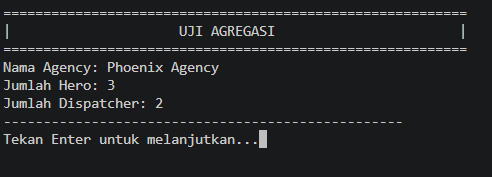
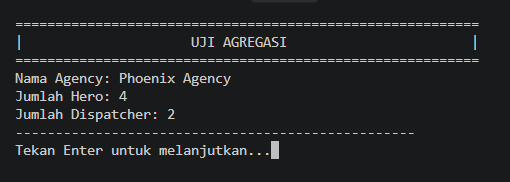
Coba Lsp

Changed region(s): [[0.0, 0.113, 0.9451, 0.8757], [0.0, 0.0565, 0.9451, 0.0847]]

diff --git a/Posttest/Posttest3/posttest3_2509106066_AryasatyaRakhaPhanyputa.py b/Posttest/Posttest3/posttest3_2509106066_AryasatyaRakhaPhanyputa.py
@@ -50,7 +50,7 @@ class Hero(ABC):
         return (f"[{self.__id_hero}] Hero: {self._nama} | Tipe: {self.tipe_hero} | "
                 f"Power: {self.power_level} | SR: {self.persentase_sukses}% | Status: {self._status}")
 
-    # OPERATOR OVERLOADING: membandingkan hero berdasarkan power level
+    # Operator Overloading dengan magic method __lt__ : membandingkan hero berdasarkan power level
     def __lt__(self, other):
         return self.power_level < other.power_level
 
@@ -82,7 +82,7 @@ class Hero(ABC):
     def aksi_khusus(self):
         pass
 
-# Inheritance dan # LSP (Liskov Substitution Principle)
+# Inheritance dan LSP (Liskov Substitution Principle)
 # Semua subclass Hero menepati kontrak Hero (tampilkan_stats & aksi_khusus diimplementasikan penuh,
 # tidak ada method yang hanya melempar error), sehingga objek subclass bisa dipakai di mana pun Hero dipakai.
 class HeroCombat(Hero):
@@ -122,7 +122,19 @@ class HeroMobility(Hero):
 
     def aksi_khusus(self):      # overriding
         print(f"{self.nama} bergerak cepat dengan speed level {self.speed_level}!")
- 
+
+# OCP: HeroVigor ditambahkan sebagai subclass baru tanpa mengubah Hero maupun subclass lainnya.
+class HeroVigor(Hero):
+    TIPE = "Vigor"
+    def __init__(self, nama, power_level, persentase_sukses, stamina, status="Standby"):
+        super().__init__(nama, power_level, persentase_sukses, status)
+        self.stamina = stamina  
+
+    def tampilkan_stats(self):  # overriding
+        print(self.info_dasar() + f" | Stamina: {self.stamina}")
+
+    def aksi_khusus(self):      # overriding
+        print(f"{self.nama} mempunyai stamina sebesar {self.stamina}!")
 
 # DIP (Dependency Inversion Principle)
 # Dispatcher bergantung pada abstraksi MissionEvaluator, bukan pada kelas konkret.
@@ -133,7 +145,6 @@ class MissionEvaluator(ABC):
 
 # OCP (Open/Closed Principle): aturan penilaian baru cukup ditambah sebagai subclass baru
 # dari MissionEvaluator, tanpa mengubah Dispatcher maupun penilai yang sudah ada.
-
 # penilaian konkret ditambahkan lewat kelas baru
 class TypeEvaluator(MissionEvaluator):
     def nilai(self, tim, misi):
@@ -161,7 +172,7 @@ class DispatchLog:
         self.nama_misi = nama_misi
         self.sukses = sukses
         
-# OPERATOR OVERLOADING: magic method __str__
+# Operator Overloading: magic method __str__
     def __str__(self): 
         hasil = "SUKSES" if self.sukses else "GAGAL"
         return f"[LOG] {hasil} | Operator: {self.nama_operator} | Misi: {self.nama_misi}"
@@ -172,7 +183,8 @@ class Dispatcher:
         self.nama_operator = nama_operator
         self.__kode_akses = kode_akses  
         self.total_dispatch = 0         
-        self.__logs = []  # KOMPOSISI: log dibuat & dimiliki Dispatcher
+        self.__logs = []  # KOMPOSISI: log dibuat dan dimiliki Dispatcher
+        # DIP: penilai disuntikkan lewat constructor (dependency injection); TypeEvaluator hanya fallback jika tidak diberikan
         self.penilai = penilai if penilai is not None else TypeEvaluator()
 
     @property
@@ -208,6 +220,8 @@ class Dispatcher:
                 self.__logs.append(DispatchLog(self.nama_operator, misi.nama_kejadian, False))
                 return
 
+        # OCP + LSP: Dispatcher hanya memanggil nilai(); penilai apa pun (TypeEvaluator,
+        # SuccessRateEvaluator, atau yang baru) bisa dipakai tanpa mengubah baris ini.
         if not self.penilai.nilai(tim_hero, misi):
             print("[MISI GAGAL] Tim tidak memenuhi penilaian misi.")
             for h in tim_hero:
@@ -285,5 +299,5 @@ class Hackcalls:
 
 
 def proses_panggilan(panggilan):
-    # Satu fungsi untuk semua jenis panggilan: yang penting punya tangani()
+    # Satu fungsi untuk semua jenis panggilan: yang penting mempunyai method tangani()
     panggilan.tangani()

diff --git a/Posttest/Posttest3/main.py b/Posttest/Posttest3/main.py
@@ -1,6 +1,6 @@
 import os
 from posttest3_2509106066_AryasatyaRakhaPhanyputa import (
-    Hero, HeroCombat, HeroIntelligence, HeroMobility, Misi, Dispatcher, Agency,
+    Hero, HeroCombat, HeroIntelligence, HeroMobility, HeroVigor, Misi, Dispatcher, Agency,
     SuccessRateEvaluator, Competingcalls, Hackcalls, proses_panggilan,)
 
 def lanjut():
@@ -21,11 +21,13 @@ if __name__ == "__main__":
     hero1 = HeroIntelligence("Invisigal", 85, 90, "Smart Glasses")
     hero2 = HeroCombat("Blonde Blazer", 90, 95, "Necklace Power")
     hero3 = HeroMobility("Coupe", 75, 85, 10)
+    hero4 = HeroVigor("Golem", 90, 60, 98)
 
     print("Data Hero:")
     hero1.tampilkan_stats()
     hero2.tampilkan_stats()
     hero3.tampilkan_stats()
+    hero4.tampilkan_stats()
     print("-" * 50)
     print("Total Hero:", Hero.total_hero)
     print("Nama Agency:", Hero.nama_agency)
@@ -59,13 +61,14 @@ if __name__ == "__main__":
     print("==========================================================")
     for hero in [hero1, hero2, hero3]:   # satu loop, perilaku berbeda
         hero.aksi_khusus()
+    hero4.aksi_khusus()
     print("-" * 50)
 
     lanjut()
     print("==========================================================")
     print("|                     UJI DUCK TYPING                    |")
     print("==========================================================")
-    proses_panggilan(Competingcalls("Selamatkan bank", "Selamatkan sekolah"))
+    proses_panggilan(Competingcalls("Selamatkan bank", "Selamatkan sekolah. Jika tidak memilih maka opsi tersebut akan menghilang!"))
     proses_panggilan(Hackcalls("sistem keamanan gedung"))
     print("-" * 50)   
 
@@ -73,8 +76,9 @@ if __name__ == "__main__":
     print("==========================================================")
     print("|              UJI OPERATOR OVERLOADING                  |")
     print("==========================================================")
-    print("__str__ -> lihat Uji Komposisi (print(log))")
-    print(f"__lt__ : {hero1.nama} < {hero2.nama} ? {hero1 < hero2}")
+    # uji __lt__
+    print(f"{hero1.nama} ({hero1.power_level}) < {hero2.nama} ({hero2.power_level}) ? {hero1 < hero2}") 
+    print(f"{hero2.nama} ({hero2.power_level}) < {hero3.nama} ({hero3.power_level}) ? {hero2 < hero3}")
     print("Hero terkuat (max):", max(hero1, hero2, hero3).nama)
     print("-" * 50)
 
@@ -129,7 +133,6 @@ if __name__ == "__main__":
     print("|              UJI DIP (Dependency Injection)            |")
     print("==========================================================")
     print("Misi INC-01 butuh Intelligence + Mobility. hero2 bertipe Combat (SR 95%).")
-    print("Kelas Dispatcher sama, evaluator berbeda, tanpa mengubah Dispatcher.")
     print("-" * 50)
     print("Operator 1 (TypeEvaluator, default):")
     operator1.dispatch_tim_hero([hero2], inc1)
@@ -142,7 +145,7 @@ if __name__ == "__main__":
     print("==========================================================")
     print("|                      UJI KOMPOSISI                     |")
     print("==========================================================")
-    operator1.tampilkan_log()
+    operator1.tampilkan_log() 
     print("-" * 50)
 
     lanjut()
@@ -153,6 +156,7 @@ if __name__ == "__main__":
     agency.tambah_hero(hero1)
     agency.tambah_hero(hero2)
     agency.tambah_hero(hero3)
+    agency.tambah_hero(hero4)
     agency.tambah_dispatcher(operator1)
     agency.tambah_dispatcher(operator2)
 
